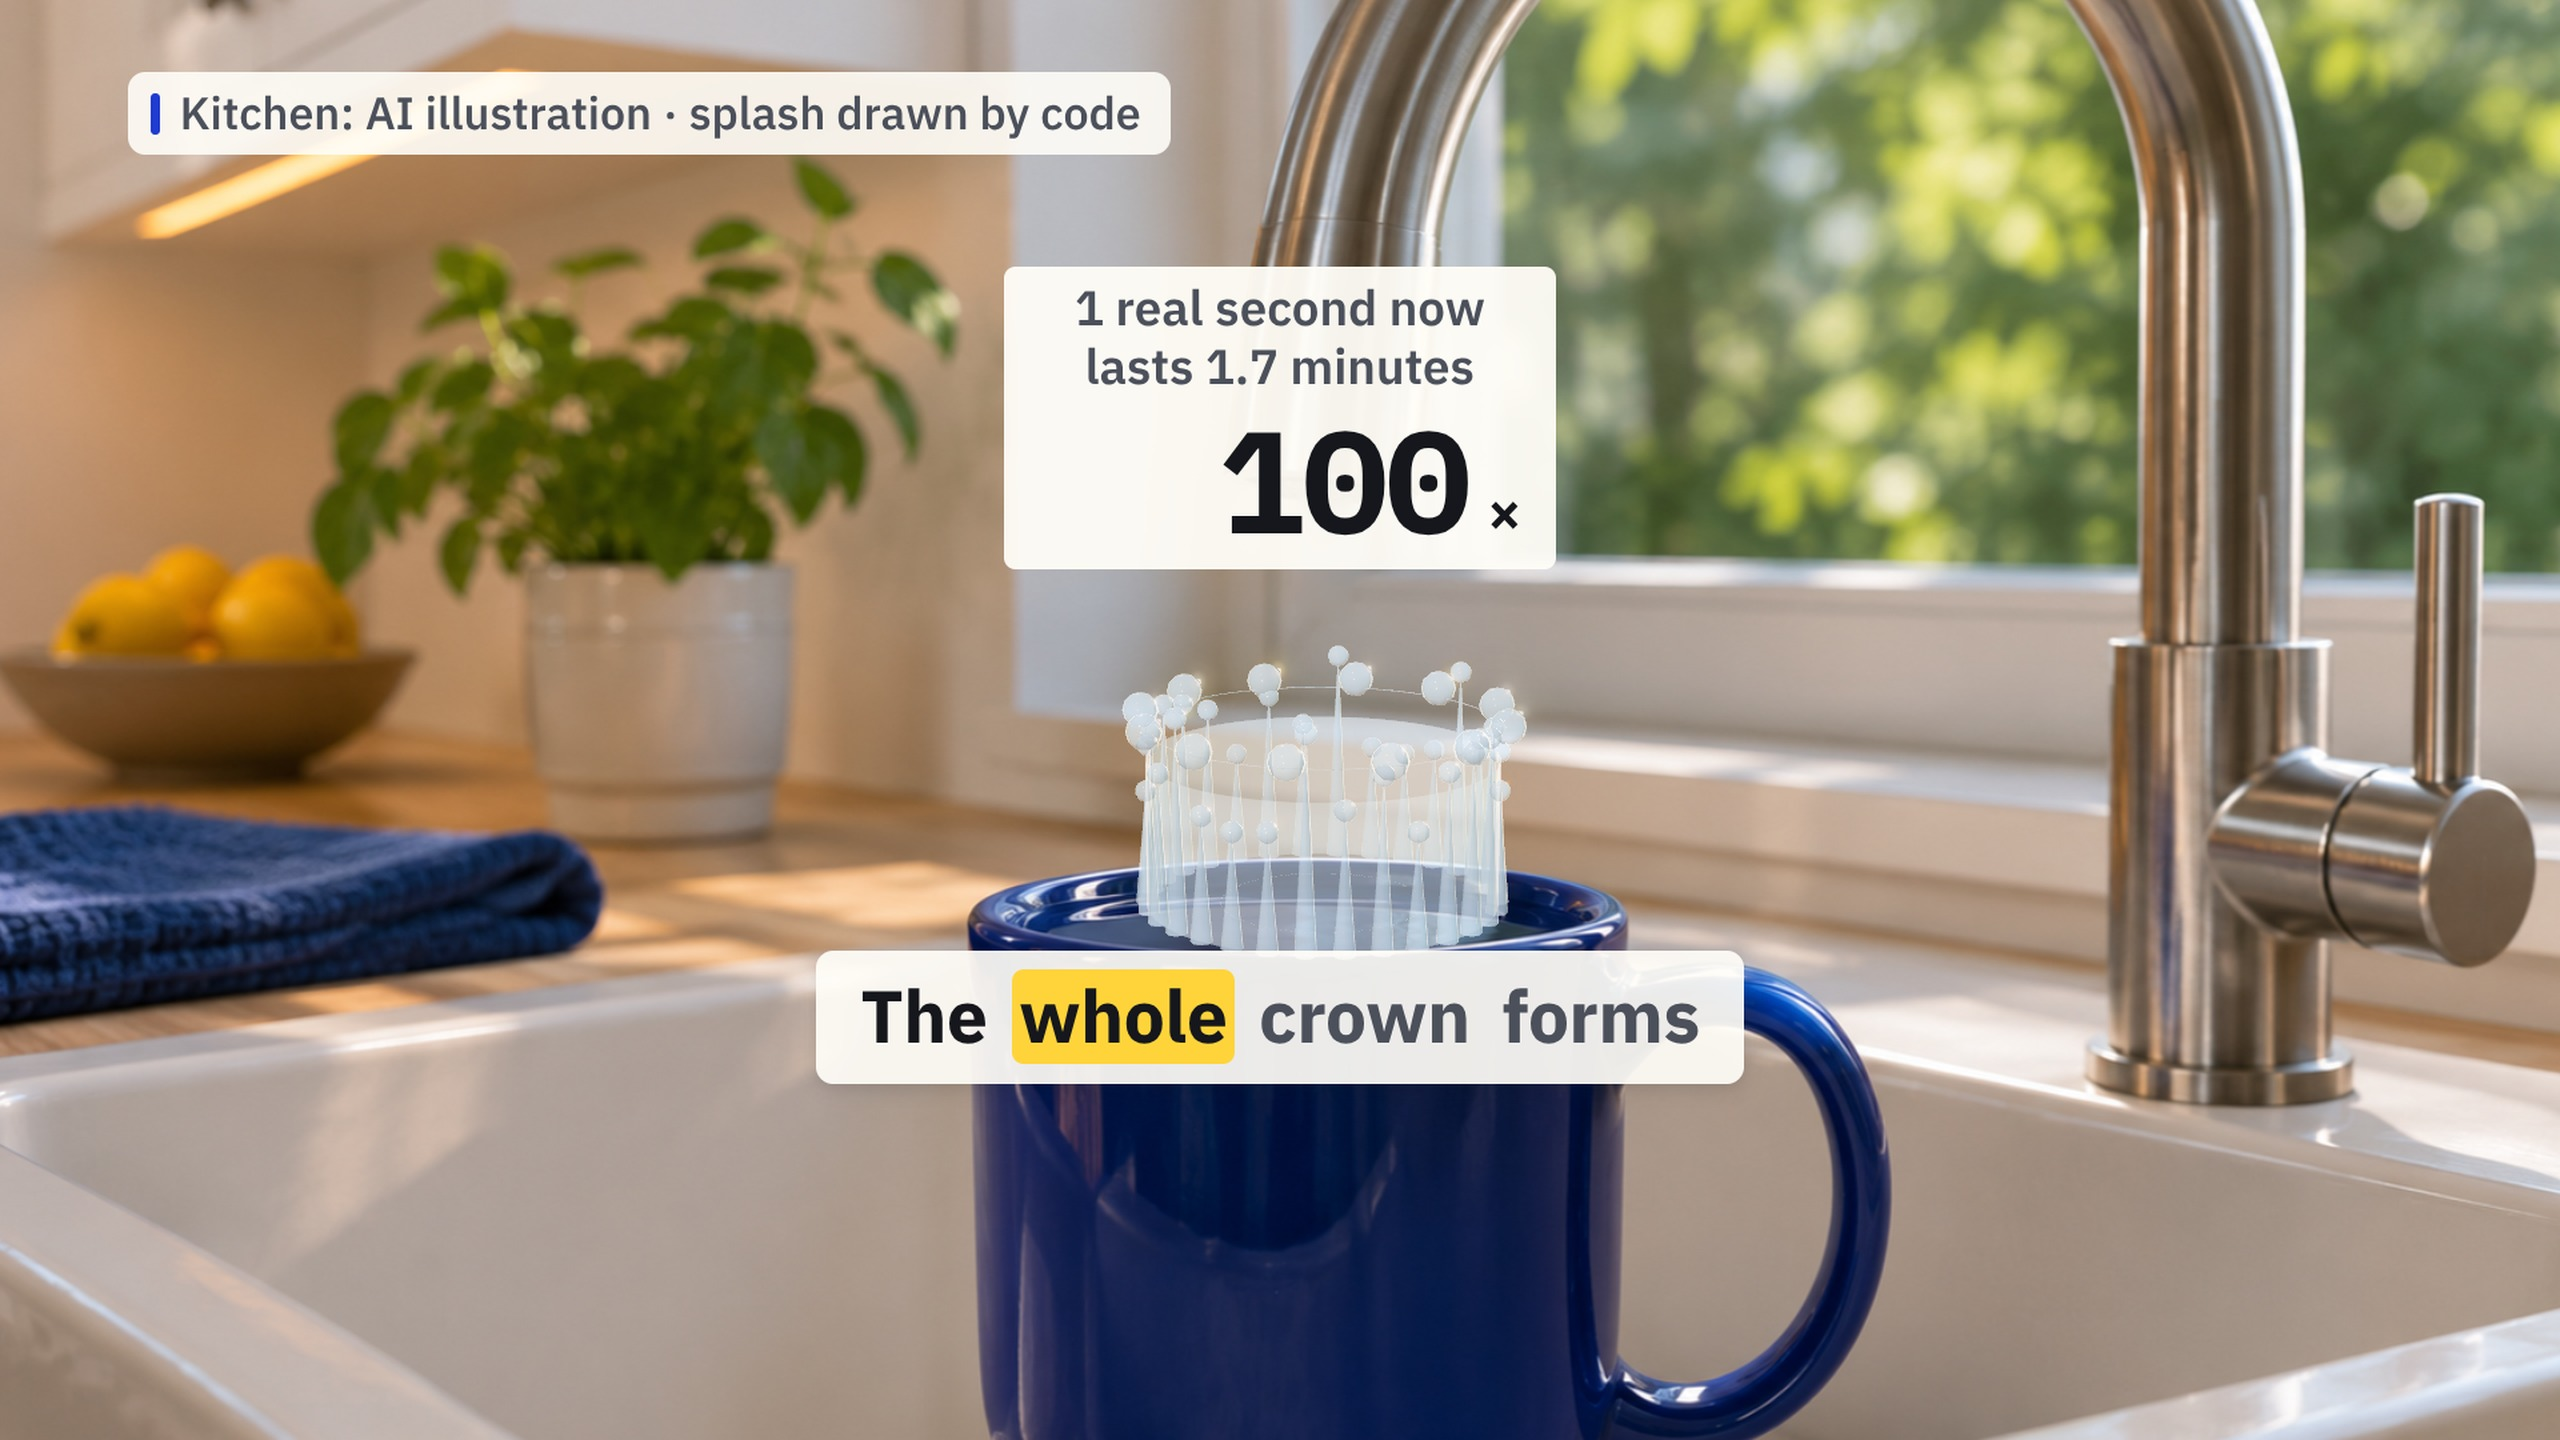
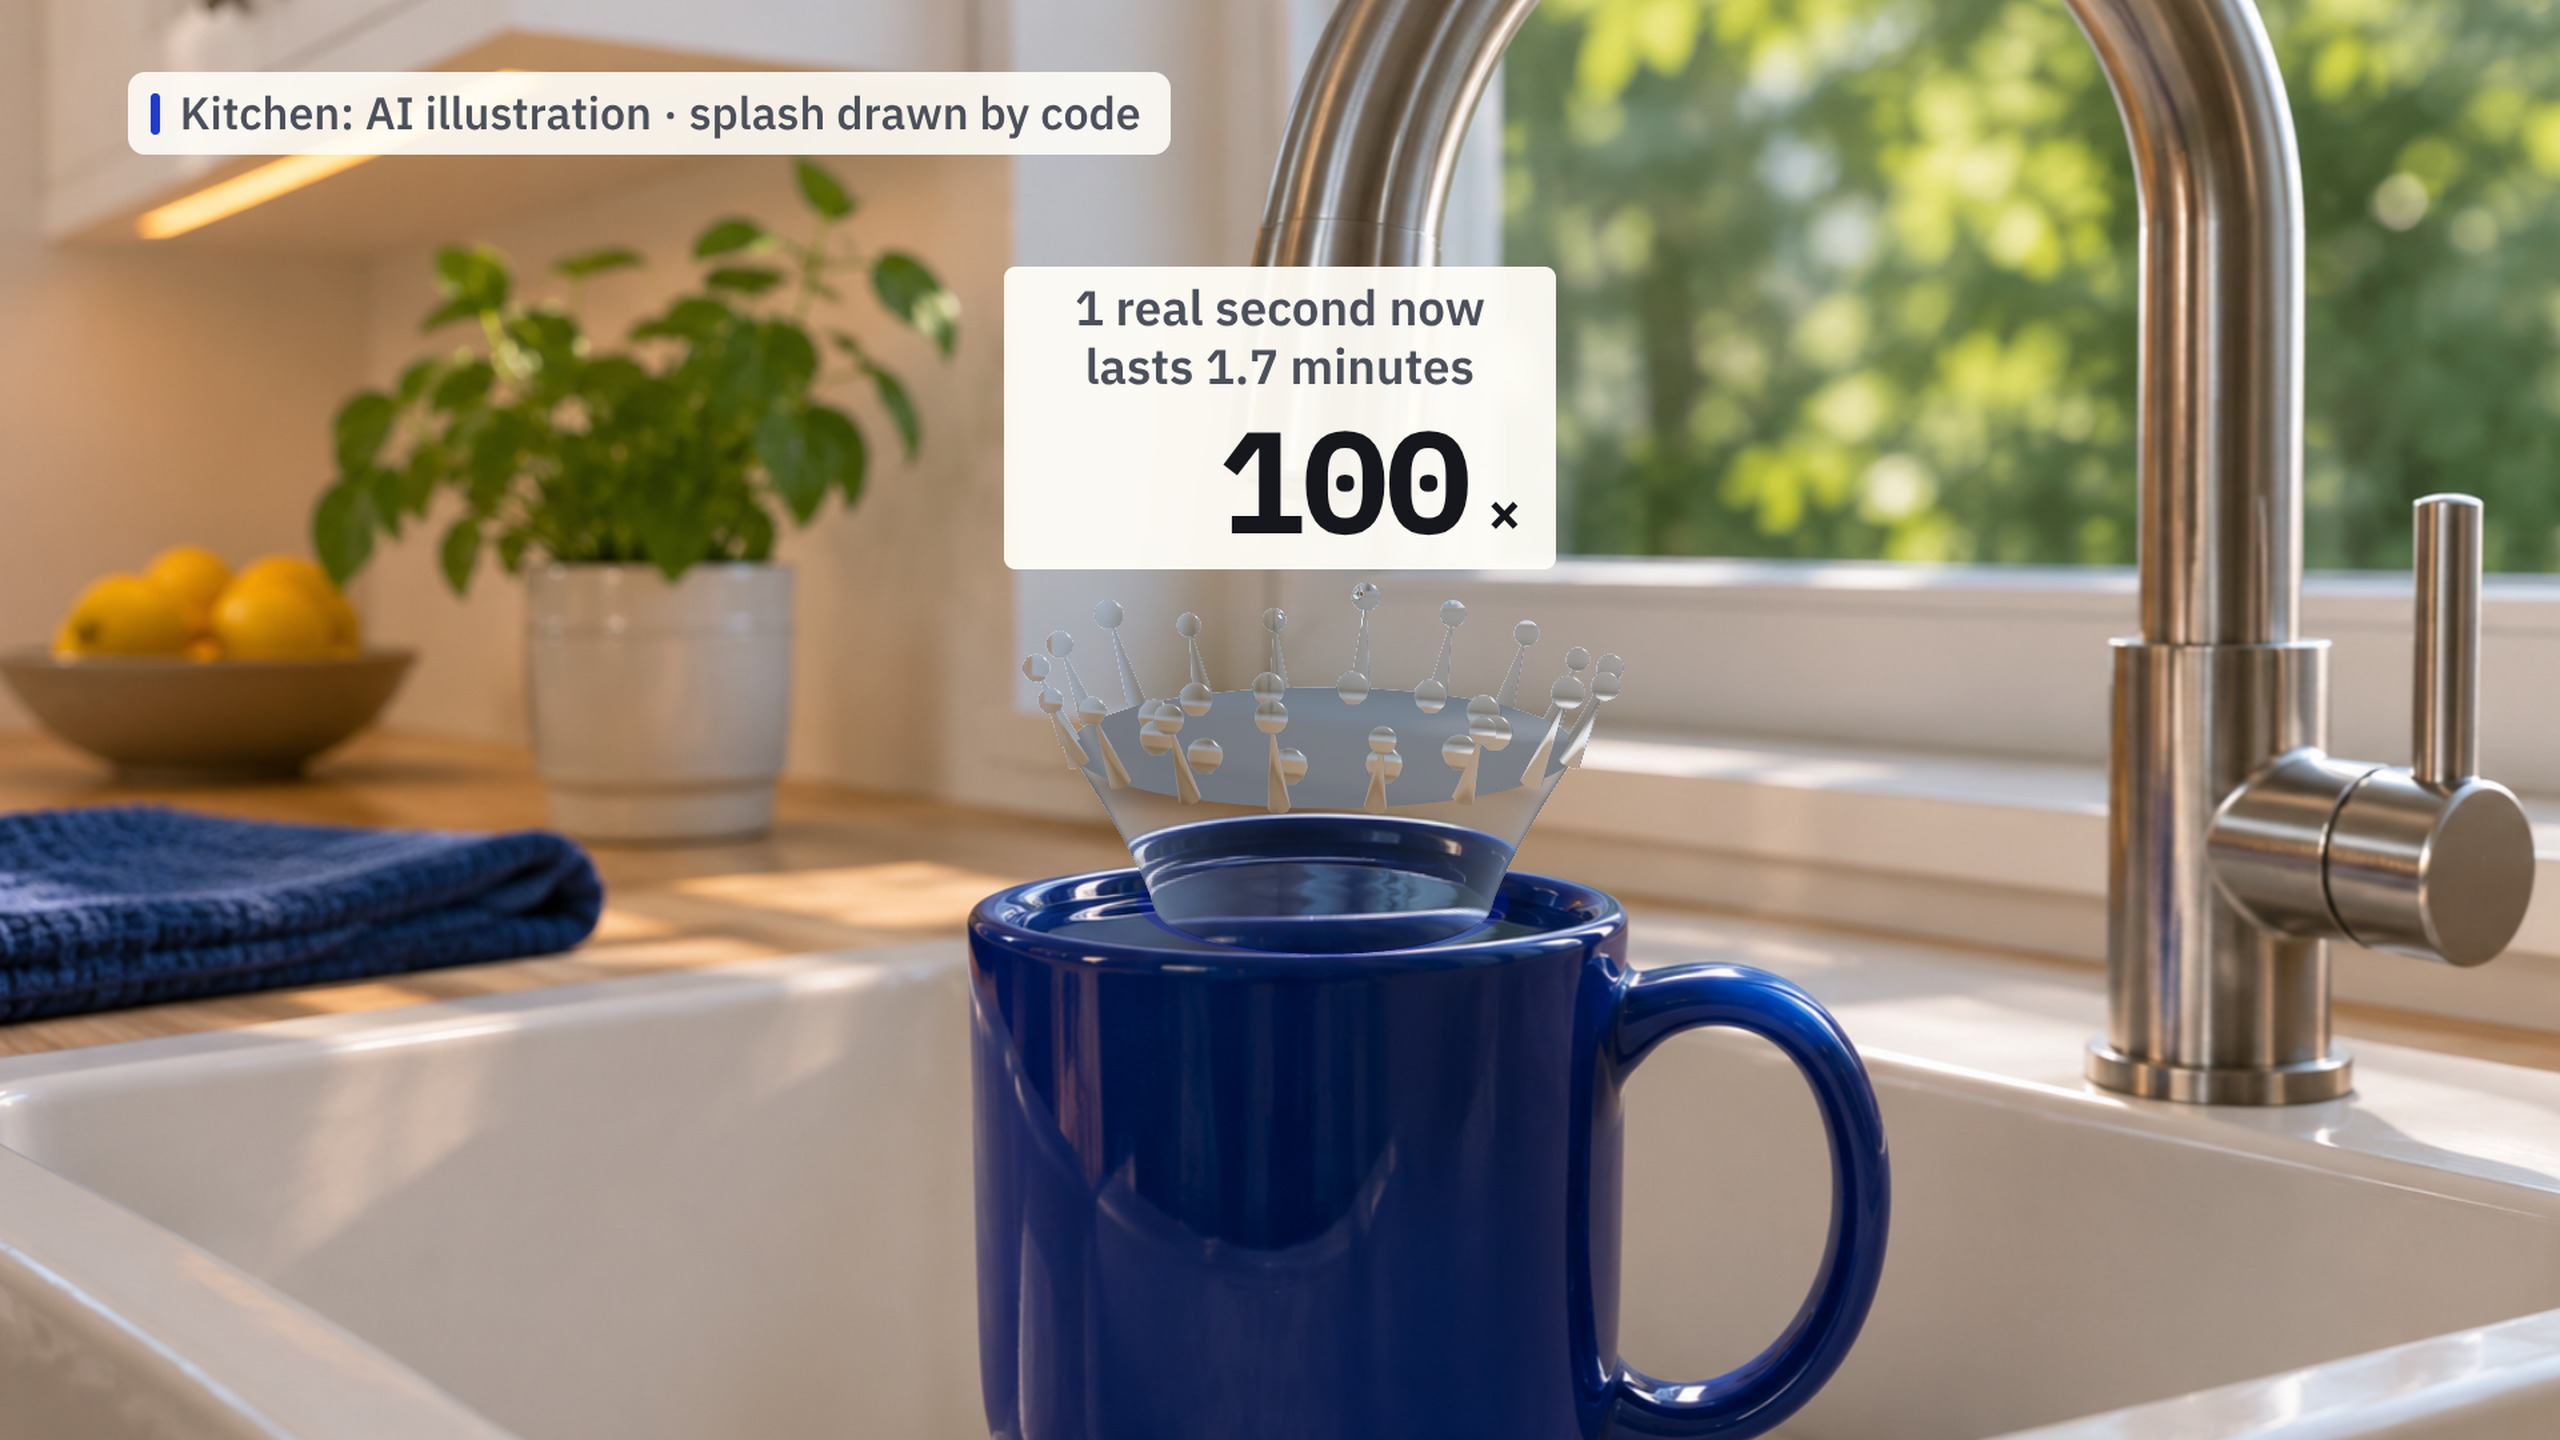
Plate-03 crown v2: flared clear-water coronet with refraction, Fresnel, window glints, jets with beads, crater ring
Claude-Session: https://claude.ai/code/session_0192s8Y3nHgGCCsvNARxNLPn

Changed region(s): [[0.3125, 0.4375, 0.6875, 0.7812]]

diff --git a/films/channels/physics/set/plates.js b/films/channels/physics/set/plates.js
@@ -99,6 +99,7 @@ export const createPlates = ({ scene, camera, W, H, FILM, canvas }) => {
   const cam3 = (t) => { const it = active(t); if (!it || !it.p.cam3) return null; const c = it.p.cam3; const sf = shiftAt(it, t); return sf.x || sf.y ? { ...c, target: [c.target[0] + sf.x, c.target[1] + sf.y, c.target[2]] } : c; };
   const anchor = (t) => { const it = active(t); return it && it.p.anchor ? it.p.anchor : null; };
   const drawNight = (t, R, w) => { const it = active(t); if (!it || !it.night) return false; const sf = shiftAt(it, t), sh9 = -sf.x * sf.ppm * Math.max(W / 1672, H / 941); it.night.draw(R, w, sh9); return true; };
+  const shiftPx = (t) => { const it = active(t); if (!it) return [0, 0]; const sf = shiftAt(it, t), cs = Math.max(W / 1672, H / 941); return [-sf.x * sf.ppm * cs, sf.y * sf.ppm * cs]; };
   const imageOf = (id) => { const it = items.find((q) => q.p.id === id); return it && it.ok ? it.imgs[0] : null; };
-  return { ready, apply, cam, cam3, zoom, anchor, active, items, imageOf, drawNight };
+  return { ready, apply, cam, cam3, zoom, anchor, active, items, imageOf, drawNight, shiftPx };
 };
